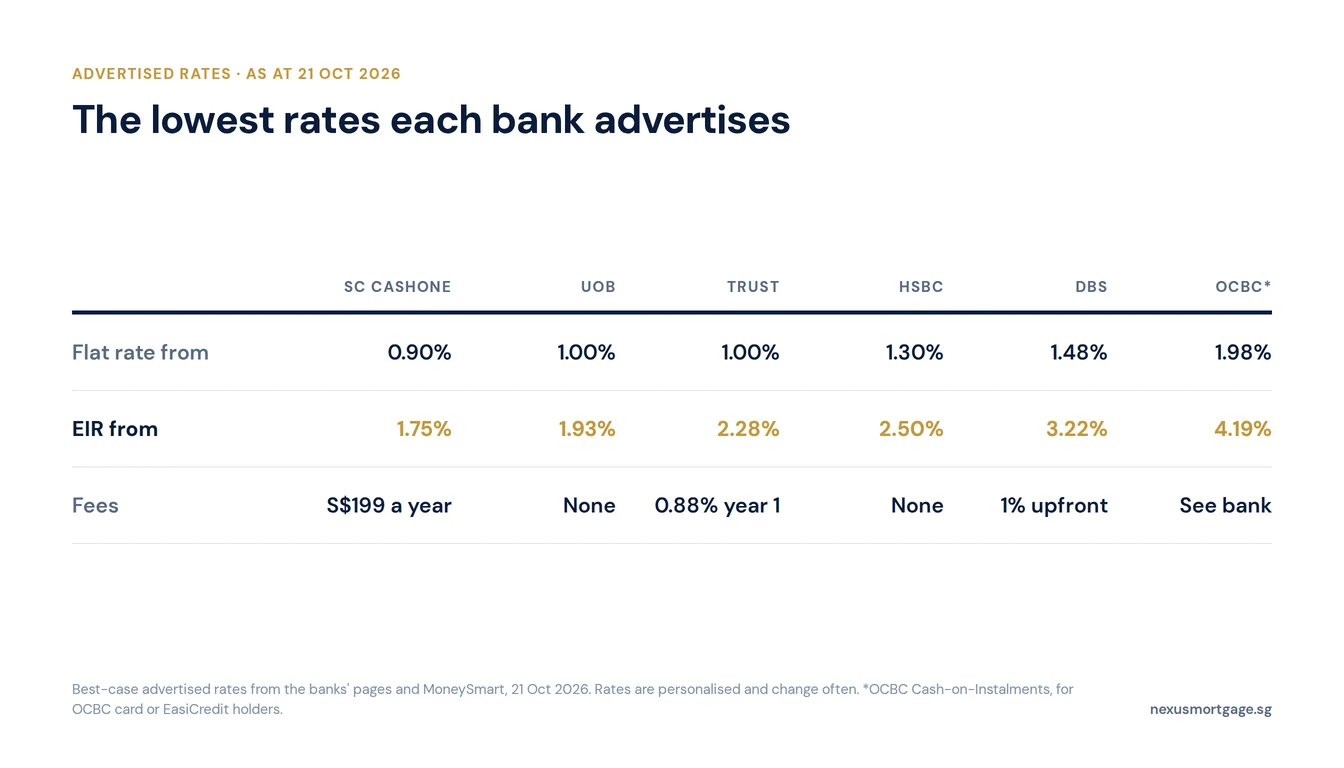
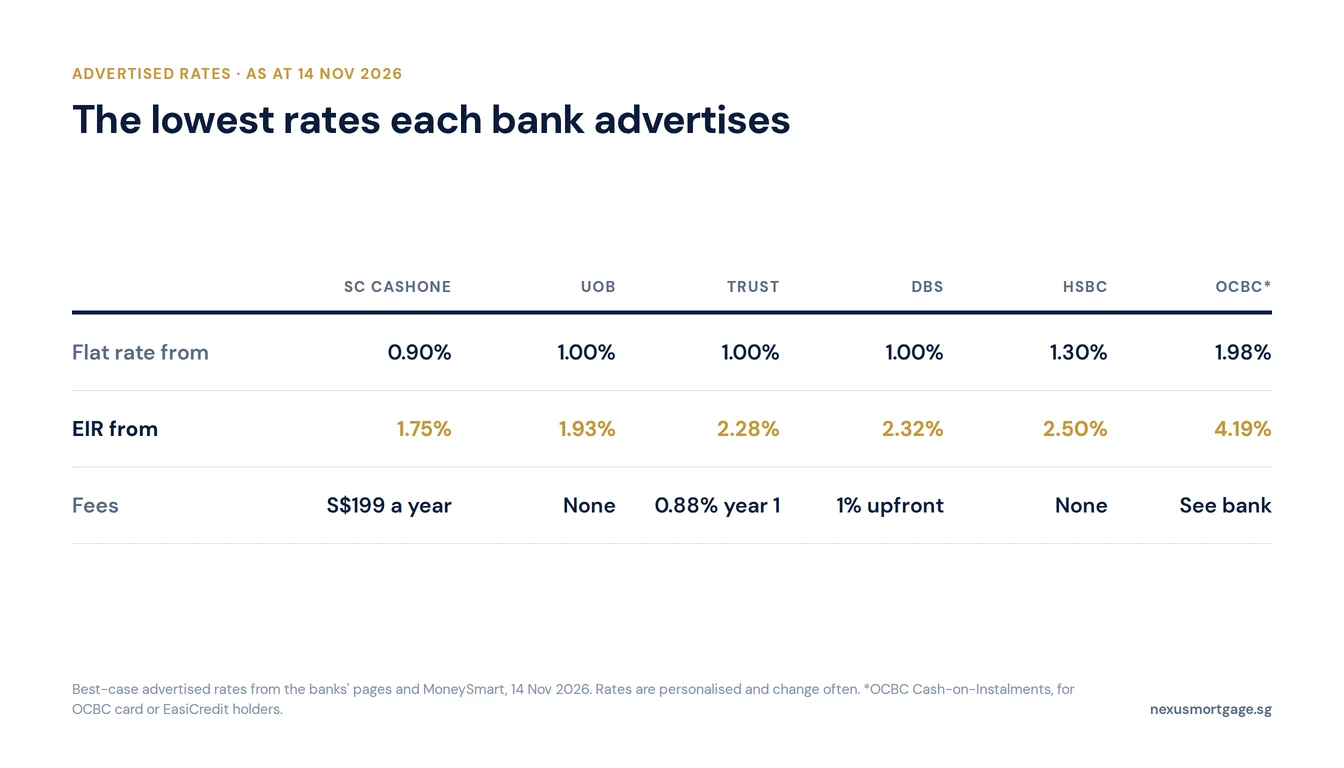
Personal loan rates: recheck to 14 Nov; DBS now from 1.00% + 1% fee (EIR 2.32%)
Trust, SC, UOB, HSBC and OCBC unchanged. DBS replaced its 1.99% / 5.47% worked
example with S$10,000 over 12 months at 1.00% + 1% fee (EIR 3.67%), so the
hero, table, FAQ and thumbnail follow.

diff --git a/blog/personal-loan-interest-rates-singapore-2026/index.html b/blog/personal-loan-interest-rates-singapore-2026/index.html
@@ -80,7 +80,7 @@
   <link rel="alternate" hreflang="en-sg" href="https://nexusmortgage.sg/blog/personal-loan-interest-rates-singapore-2026/">
   <link rel="alternate" hreflang="x-default" href="https://nexusmortgage.sg/blog/personal-loan-interest-rates-singapore-2026/">
 
-  <script type="application/ld+json">{"@context":"https://schema.org","@type":"Article","headline":"Personal Loan Interest Rates in Singapore: Bank by Bank, With the Real Cost","datePublished":"2026-11-12","dateModified":"2026-11-12","inLanguage":"en-SG","articleSection":"Personal Loans","wordCount":1900,"description":"Personal loan rates in Singapore compared bank by bank: advertised flat rates and EIRs, the fees that change the real cost, why the rate you get may differ, and what a loan does to your home loan.","mainEntityOfPage":{"@type":"WebPage","@id":"https://nexusmortgage.sg/blog/personal-loan-interest-rates-singapore-2026/"},"author":{"@id":"https://nexusmortgage.sg/#dan-ler","@type":"Person","name":"Dan Ler","url":"https://nexusmortgage.sg/about/","image":"https://nexusmortgage.sg/dan-ler.webp","jobTitle":"Mortgage Advisor","worksFor":{"@type":"Organization","name":"Nexus Mortgage","url":"https://nexusmortgage.sg"}},"publisher":{"@id":"https://nexusmortgage.sg/#organization"},"keywords":"personal loan interest rate Singapore, best personal loan Singapore, personal loan comparison Singapore, lowest personal loan rate, personal loan EIR, DBS personal loan rate, UOB personal loan, Standard Chartered CashOne, HSBC personal loan, Trust instant loan, OCBC personal loan","image":[{"@type":"ImageObject","url":"https://nexusmortgage.sg/blog/blog-images/personal-loan-rates-hero.png","width":1344,"height":768},{"@type":"ImageObject","url":"https://nexusmortgage.sg/blog/blog-images/personal-loan-rates-table.png","width":1344,"height":768},{"@type":"ImageObject","url":"https://nexusmortgage.sg/blog/blog-images/personal-loan-rates-cost.png","width":1344,"height":768}]}</script>
+  <script type="application/ld+json">{"@context":"https://schema.org","@type":"Article","headline":"Personal Loan Interest Rates in Singapore: Bank by Bank, With the Real Cost","datePublished":"2026-11-12","dateModified":"2026-11-14","inLanguage":"en-SG","articleSection":"Personal Loans","wordCount":1900,"description":"Personal loan rates in Singapore compared bank by bank: advertised flat rates and EIRs, the fees that change the real cost, why the rate you get may differ, and what a loan does to your home loan.","mainEntityOfPage":{"@type":"WebPage","@id":"https://nexusmortgage.sg/blog/personal-loan-interest-rates-singapore-2026/"},"author":{"@id":"https://nexusmortgage.sg/#dan-ler","@type":"Person","name":"Dan Ler","url":"https://nexusmortgage.sg/about/","image":"https://nexusmortgage.sg/dan-ler.webp","jobTitle":"Mortgage Advisor","worksFor":{"@type":"Organization","name":"Nexus Mortgage","url":"https://nexusmortgage.sg"}},"publisher":{"@id":"https://nexusmortgage.sg/#organization"},"keywords":"personal loan interest rate Singapore, best personal loan Singapore, personal loan comparison Singapore, lowest personal loan rate, personal loan EIR, DBS personal loan rate, UOB personal loan, Standard Chartered CashOne, HSBC personal loan, Trust instant loan, OCBC personal loan","image":[{"@type":"ImageObject","url":"https://nexusmortgage.sg/blog/blog-images/personal-loan-rates-hero.png","width":1344,"height":768},{"@type":"ImageObject","url":"https://nexusmortgage.sg/blog/blog-images/personal-loan-rates-table.png","width":1344,"height":768},{"@type":"ImageObject","url":"https://nexusmortgage.sg/blog/blog-images/personal-loan-rates-cost.png","width":1344,"height":768}]}</script>
 
   <script type="application/ld+json">{
   "@context": "https://schema.org",
@@ -92,7 +92,7 @@
       "name": "Which bank has the lowest personal loan interest rate in Singapore?",
       "acceptedAnswer": {
         "@type": "Answer",
-        "text": "On advertised rates as at 21 October 2026, Standard Chartered CashOne was lowest at 0.90% a year flat (EIR from 1.75%), followed by UOB and Trust at 1.00%, HSBC at 1.30%, DBS at 1.48% and OCBC's card-holder loan at 1.98%. These are the lowest rates each bank offers to its strongest applicants; the rate you are offered depends on your income and credit profile."
+        "text": "On advertised rates as at 14 November 2026, Standard Chartered CashOne was lowest at 0.90% a year flat (EIR from 1.75%), followed by UOB, Trust and DBS at 1.00%, HSBC at 1.30% and OCBC's card-holder loan at 1.98%. These are the lowest rates each bank offers to its strongest applicants; the rate you are offered depends on your income and credit profile."
       }
     },
     {
@@ -108,7 +108,7 @@
       "name": "Why is the rate I am offered higher than the advertised rate?",
       "acceptedAnswer": {
         "@type": "Answer",
-        "text": "Advertised rates are 'from' rates for the best profiles: higher incomes, clean credit and often existing customers. Banks personalise the rate, so a lower income or other borrowing usually means a higher rate. DBS's own worked example uses 1.99% plus a 1% processing fee, an EIR of 5.47%, against its headline 1.48%."
+        "text": "Advertised rates are 'from' rates for the best profiles: higher incomes, clean credit and often existing customers. Banks personalise the rate, so a lower income or other borrowing usually means a higher rate. DBS's own worked example, S$10,000 over 12 months at 1.00% plus a 1% processing fee, is an EIR of 3.67%."
       }
     },
     {
@@ -289,7 +289,7 @@
 
   <div class="short-answer">
     <div class="sa-title">Short answer</div>
-    <p>As at 21 October 2026, the main banks advertised personal loans from <strong>0.90% to 1.98% a year flat</strong>, which is an <strong>EIR from about 1.75% to 4.19%</strong>. Those are best-case rates. Your offer depends on your income and credit, and fees change the real cost: DBS's own example at 1.99% plus a 1% fee is an <strong>EIR of 5.47%</strong>. Always compare on the <strong>EIR including fees</strong>, and if you plan to buy or refinance a home soon, remember the instalment <strong>cuts your home loan by far more</strong> than it costs.</p>
+    <p>As at 14 November 2026, the main banks advertised personal loans from <strong>0.90% to 1.98% a year flat</strong>, which is an <strong>EIR from about 1.75% to 4.19%</strong>. Those are best-case rates. Your offer depends on your income and credit, and fees change the real cost: DBS's own example, S$10,000 over 12 months at 1.00% plus a 1% fee, is an <strong>EIR of 3.67%</strong>. Always compare on the <strong>EIR including fees</strong>, and if you plan to buy or refinance a home soon, remember the instalment <strong>cuts your home loan by far more</strong> than it costs.</p>
   </div>
 
   <div class="toc">
@@ -308,11 +308,11 @@
   <p>Nexus does not lend personal loans. We write about them because they keep turning up in our clients' home loan applications, usually at the worst moment. This is the comparison we would want before taking one.</p>
 
   <h2 id="rates">Advertised Rates, Bank by Bank</h2>
-  <img src="../blog-images/personal-loan-rates-table.webp" width="1344" height="768" alt="Table of advertised personal loan rates in Singapore as at 21 October 2026: Standard Chartered 0.90%, UOB 1.00%, Trust 1.00%, HSBC 1.30%, DBS 1.48% and OCBC 1.98% flat, with EIRs from 1.75% to 4.19%" class="blog-img" loading="lazy">
+  <img src="../blog-images/personal-loan-rates-table.webp" width="1344" height="768" alt="Table of advertised personal loan rates in Singapore as at 14 November 2026: Standard Chartered 0.90%, UOB 1.00%, Trust 1.00%, DBS 1.00%, HSBC 1.30% and OCBC 1.98% flat, with EIRs from 1.75% to 4.19%" class="blog-img" loading="lazy">
   <p class="img-caption">These are floors. The rate you are offered depends on your income and credit.</p>
 
 
-  <p>The lowest rates each bank advertised as at 21 October 2026. Rates and promotions change often, so check the bank before you apply.</p>
+  <p>The lowest rates each bank advertised as at 14 November 2026. Rates and promotions change often, so check the bank before you apply.</p>
 
   <table class="compare-table">
     <thead>
@@ -322,8 +322,8 @@
       <tr><td>Standard Chartered CashOne</td><td>0.90% p.a.</td><td>1.75% p.a.</td><td>S$199 annual fee (EIR 2.15% with it, on S$20,000 over 5 years)</td></tr>
       <tr><td>UOB Personal Loan</td><td>1.00% p.a.</td><td>1.93% p.a.</td><td>No processing fee (per MoneySmart)</td></tr>
       <tr><td>Trust Instant Loan</td><td>1.00% p.a.</td><td>2.28% p.a.</td><td>EIR includes a 0.88% first-year annual fee</td></tr>
+      <tr><td>DBS / POSB Personal Loan</td><td>1.00% p.a.</td><td>2.32% p.a.</td><td>1% processing fee; S$250 early termination</td></tr>
       <tr><td>HSBC Personal Loan</td><td>1.30% p.a.</td><td>2.50% p.a.</td><td>Promotional rate; zero processing fee</td></tr>
-      <tr><td>DBS / POSB Personal Loan</td><td>1.48% p.a.</td><td>3.22% p.a.</td><td>1% processing fee; S$250 early termination</td></tr>
       <tr><td>OCBC Cash-on-Instalments</td><td>1.98% p.a.</td><td>4.19% p.a.</td><td>OCBC credit card or EasiCredit holders only</td></tr>
     </tbody>
   </table>
@@ -336,7 +336,7 @@
 
   <p>Every rate in that table is a &ldquo;from&rdquo; rate: the lowest the bank offers, to its strongest applicants. Banks personalise the rate on your income, your credit report, your existing borrowing and often whether you already bank with them.</p>
 
-  <p>DBS shows the gap in its own worked example: a S$3,000 loan over 12 months at <strong>1.99% plus a 1% processing fee</strong> is an <strong>EIR of 5.47%</strong>, against its headline 1.48% and EIR of 3.22%. A smaller loan, a shorter tenure and a fixed fee all push the effective rate up.</p>
+  <p>DBS shows the gap in its own worked example: a S$10,000 loan over 12 months at <strong>1.00% plus a 1% processing fee</strong> is an <strong>EIR of 3.67%</strong>, against the headline EIR of 2.32% for the same rate and fee. A smaller loan, a shorter tenure and a fixed fee all push the effective rate up.</p>
 
   <p>There are also hard limits on how much each bank can lend you, set by MAS on your income: 2 months' income if you earn S$20,000 to below S$30,000 a year, 4 months' from S$30,000 to below S$120,000. Our <a href="/blog/personal-loan-how-much-can-i-borrow-singapore/">personal loan limits guide</a> covers them in full.</p>
 
@@ -395,13 +395,13 @@
   <h2 id="faq">Frequently Asked Questions</h2>
 
   <div class="faq-q">Which bank has the lowest personal loan interest rate in Singapore?</div>
-  <p>As at 21 October 2026, Standard Chartered CashOne at 0.90% a year flat (EIR from 1.75%), then UOB and Trust at 1.00%, HSBC at 1.30%, DBS at 1.48% and OCBC (card holders) at 1.98%. These are best-case rates; yours depends on your profile.</p>
+  <p>As at 14 November 2026, Standard Chartered CashOne at 0.90% a year flat (EIR from 1.75%), then UOB, Trust and DBS at 1.00%, HSBC at 1.30% and OCBC (card holders) at 1.98%. These are best-case rates; yours depends on your profile.</p>
 
   <div class="faq-q">What is the difference between the interest rate and the EIR on a personal loan?</div>
   <p>The flat rate is charged on the original loan for the whole tenure. The EIR is the true annual cost on the balance you owe, including fees, and is roughly double. Compare on the EIR.</p>
 
   <div class="faq-q">Why is the rate I am offered higher than the advertised rate?</div>
-  <p>Advertised rates are for the strongest applicants. DBS's own example uses 1.99% plus a 1% fee, an EIR of 5.47%, against its headline 1.48%.</p>
+  <p>Advertised rates are for the strongest applicants. DBS's own example, S$10,000 over 12 months at 1.00% plus a 1% fee, is an EIR of 3.67%, against its headline EIR of 2.32%.</p>
 
   <div class="faq-q">What fees should I look out for on a personal loan?</div>
   <p>Processing fees, annual fees on some products, early termination fees (S$250 at DBS) and late payment charges. Standard Chartered CashOne has a S$199 annual fee.</p>
@@ -426,8 +426,8 @@
   <p style="font-size: .8rem; color: rgba(232,227,218,.35); line-height: 1.6;">
     <em>This article is general information on personal loans in Singapore. It is not financial advice and not an
     offer of credit. Nexus Mortgage does not provide personal loans; BizSaver is a Nexus partner and Nexus may benefit
-    from that relationship. Advertised rates are the lowest each bank published as at 21 October 2026, from the banks'
-    own pages and MoneySmart's comparison updated 21 October 2026; rates are personalised and change often, so confirm
+    from that relationship. Advertised rates are the lowest each bank published as at 14 November 2026, from the banks'
+    own pages and MoneySmart's comparison, rechecked 14 November 2026; rates are personalised and change often, so confirm
     with the bank. The S$30,000 table is our own illustrative calculation over 36 months; banks' published EIRs may use
     slightly different methods. The home loan figure assumes a 4% stress rate over 25 years and no other debt. Current
     as at November 2026. Sources:

diff --git a/scripts/articles/personal_loan_rates.py b/scripts/articles/personal_loan_rates.py
@@ -11,6 +11,7 @@ KEYWORDS = ("personal loan interest rate Singapore, best personal loan Singapore
 SECTION = "Personal Loans"
 DATE_HUMAN = "12 November 2026"
 DATE_ISO = "2026-11-12"
+DATE_MODIFIED = "2026-11-14"
 READ_TIME = "8-minute read"
 WORDS = 1900
 H1 = "Personal Loan Interest Rates in Singapore: Bank by Bank, With the Real Cost"
@@ -24,8 +25,8 @@ OG_IMAGE_TYPE = "image/png"
 
 FAQ = [
  ("Which bank has the lowest personal loan interest rate in Singapore?",
-  "On advertised rates as at 21 October 2026, Standard Chartered CashOne was lowest at 0.90% a year flat (EIR from "
-  "1.75%), followed by UOB and Trust at 1.00%, HSBC at 1.30%, DBS at 1.48% and OCBC's card-holder loan at 1.98%. These "
+  "On advertised rates as at 14 November 2026, Standard Chartered CashOne was lowest at 0.90% a year flat (EIR from "
+  "1.75%), followed by UOB, Trust and DBS at 1.00%, HSBC at 1.30% and OCBC's card-holder loan at 1.98%. These "
   "are the lowest rates each bank offers to its strongest applicants; the rate you are offered depends on your income and credit profile."),
  ("What is the difference between the interest rate and the EIR on a personal loan?",
   "Banks advertise a flat rate, charged on the full original loan for the whole tenure even though you repay it "
@@ -34,7 +35,7 @@ FAQ = [
  ("Why is the rate I am offered higher than the advertised rate?",
   "Advertised rates are 'from' rates for the best profiles: higher incomes, clean credit and often existing "
   "customers. Banks personalise the rate, so a lower income or other borrowing usually means a higher rate. DBS's "
-  "own worked example uses 1.99% plus a 1% processing fee, an EIR of 5.47%, against its headline 1.48%."),
+  "own worked example, S$10,000 over 12 months at 1.00% plus a 1% processing fee, is an EIR of 3.67%."),
  ("What fees should I look out for on a personal loan?",
   "Processing fees taken from the loan, annual fees on some revolving-style loans, early termination fees if you "
   "repay early, and late payment charges. DBS, for example, charges S$250 to terminate a personal loan early, and "
@@ -52,7 +53,7 @@ FAQ = [
 BODY = r'''
   <div class="short-answer">
     <div class="sa-title">Short answer</div>
-    <p>As at 21 October 2026, the main banks advertised personal loans from <strong>0.90% to 1.98% a year flat</strong>, which is an <strong>EIR from about 1.75% to 4.19%</strong>. Those are best-case rates. Your offer depends on your income and credit, and fees change the real cost: DBS's own example at 1.99% plus a 1% fee is an <strong>EIR of 5.47%</strong>. Always compare on the <strong>EIR including fees</strong>, and if you plan to buy or refinance a home soon, remember the instalment <strong>cuts your home loan by far more</strong> than it costs.</p>
+    <p>As at 14 November 2026, the main banks advertised personal loans from <strong>0.90% to 1.98% a year flat</strong>, which is an <strong>EIR from about 1.75% to 4.19%</strong>. Those are best-case rates. Your offer depends on your income and credit, and fees change the real cost: DBS's own example, S$10,000 over 12 months at 1.00% plus a 1% fee, is an <strong>EIR of 3.67%</strong>. Always compare on the <strong>EIR including fees</strong>, and if you plan to buy or refinance a home soon, remember the instalment <strong>cuts your home loan by far more</strong> than it costs.</p>
   </div>
 
   <div class="toc">
@@ -72,7 +73,7 @@ BODY = r'''
 
   <h2 id="rates">Advertised Rates, Bank by Bank</h2>
 
-  <p>The lowest rates each bank advertised as at 21 October 2026. Rates and promotions change often, so check the bank before you apply.</p>
+  <p>The lowest rates each bank advertised as at 14 November 2026. Rates and promotions change often, so check the bank before you apply.</p>
 
   <table class="compare-table">
     <thead>
@@ -82,8 +83,8 @@ BODY = r'''
       <tr><td>Standard Chartered CashOne</td><td>0.90% p.a.</td><td>1.75% p.a.</td><td>S$199 annual fee (EIR 2.15% with it, on S$20,000 over 5 years)</td></tr>
       <tr><td>UOB Personal Loan</td><td>1.00% p.a.</td><td>1.93% p.a.</td><td>No processing fee (per MoneySmart)</td></tr>
       <tr><td>Trust Instant Loan</td><td>1.00% p.a.</td><td>2.28% p.a.</td><td>EIR includes a 0.88% first-year annual fee</td></tr>
+      <tr><td>DBS / POSB Personal Loan</td><td>1.00% p.a.</td><td>2.32% p.a.</td><td>1% processing fee; S$250 early termination</td></tr>
       <tr><td>HSBC Personal Loan</td><td>1.30% p.a.</td><td>2.50% p.a.</td><td>Promotional rate; zero processing fee</td></tr>
-      <tr><td>DBS / POSB Personal Loan</td><td>1.48% p.a.</td><td>3.22% p.a.</td><td>1% processing fee; S$250 early termination</td></tr>
       <tr><td>OCBC Cash-on-Instalments</td><td>1.98% p.a.</td><td>4.19% p.a.</td><td>OCBC credit card or EasiCredit holders only</td></tr>
     </tbody>
   </table>
@@ -96,7 +97,7 @@ BODY = r'''
 
   <p>Every rate in that table is a &ldquo;from&rdquo; rate: the lowest the bank offers, to its strongest applicants. Banks personalise the rate on your income, your credit report, your existing borrowing and often whether you already bank with them.</p>
 
-  <p>DBS shows the gap in its own worked example: a S$3,000 loan over 12 months at <strong>1.99% plus a 1% processing fee</strong> is an <strong>EIR of 5.47%</strong>, against its headline 1.48% and EIR of 3.22%. A smaller loan, a shorter tenure and a fixed fee all push the effective rate up.</p>
+  <p>DBS shows the gap in its own worked example: a S$10,000 loan over 12 months at <strong>1.00% plus a 1% processing fee</strong> is an <strong>EIR of 3.67%</strong>, against the headline EIR of 2.32% for the same rate and fee. A smaller loan, a shorter tenure and a fixed fee all push the effective rate up.</p>
 
   <p>There are also hard limits on how much each bank can lend you, set by MAS on your income: 2 months' income if you earn S$20,000 to below S$30,000 a year, 4 months' from S$30,000 to below S$120,000. Our <a href="/blog/personal-loan-how-much-can-i-borrow-singapore/">personal loan limits guide</a> covers them in full.</p>
 
@@ -152,13 +153,13 @@ BODY = r'''
   <h2 id="faq">Frequently Asked Questions</h2>
 
   <div class="faq-q">Which bank has the lowest personal loan interest rate in Singapore?</div>
-  <p>As at 21 October 2026, Standard Chartered CashOne at 0.90% a year flat (EIR from 1.75%), then UOB and Trust at 1.00%, HSBC at 1.30%, DBS at 1.48% and OCBC (card holders) at 1.98%. These are best-case rates; yours depends on your profile.</p>
+  <p>As at 14 November 2026, Standard Chartered CashOne at 0.90% a year flat (EIR from 1.75%), then UOB, Trust and DBS at 1.00%, HSBC at 1.30% and OCBC (card holders) at 1.98%. These are best-case rates; yours depends on your profile.</p>
 
   <div class="faq-q">What is the difference between the interest rate and the EIR on a personal loan?</div>
   <p>The flat rate is charged on the original loan for the whole tenure. The EIR is the true annual cost on the balance you owe, including fees, and is roughly double. Compare on the EIR.</p>
 
   <div class="faq-q">Why is the rate I am offered higher than the advertised rate?</div>
-  <p>Advertised rates are for the strongest applicants. DBS's own example uses 1.99% plus a 1% fee, an EIR of 5.47%, against its headline 1.48%.</p>
+  <p>Advertised rates are for the strongest applicants. DBS's own example, S$10,000 over 12 months at 1.00% plus a 1% fee, is an EIR of 3.67%, against its headline EIR of 2.32%.</p>
 
   <div class="faq-q">What fees should I look out for on a personal loan?</div>
   <p>Processing fees, annual fees on some products, early termination fees (S$250 at DBS) and late payment charges. Standard Chartered CashOne has a S$199 annual fee.</p>
@@ -183,8 +184,8 @@ BODY = r'''
   <p style="font-size: .8rem; color: rgba(232,227,218,.35); line-height: 1.6;">
     <em>This article is general information on personal loans in Singapore. It is not financial advice and not an
     offer of credit. Nexus Mortgage does not provide personal loans; BizSaver is a Nexus partner and Nexus may benefit
-    from that relationship. Advertised rates are the lowest each bank published as at 21 October 2026, from the banks'
-    own pages and MoneySmart's comparison updated 21 October 2026; rates are personalised and change often, so confirm
+    from that relationship. Advertised rates are the lowest each bank published as at 14 November 2026, from the banks'
+    own pages and MoneySmart's comparison, rechecked 14 November 2026; rates are personalised and change often, so confirm
     with the bank. The S$30,000 table is our own illustrative calculation over 36 months; banks' published EIRs may use
     slightly different methods. The home loan figure assumes a 4% stress rate over 25 years and no other debt. Current
     as at November 2026. Sources:
@@ -198,20 +199,20 @@ IMAGES = [
  {'out': 'personal-loan-rates-hero', 'type': 'hero', 'style': 'b',
   'kicker': 'Personal Loans',
   'title': "Personal loan rates, bank by bank: why 'from 1%' is not your rate",
-  'num': '5.47%', 'numlabel': "The EIR in DBS's own worked example, against a headline rate of 1.48%"},
+  'num': '3.67%', 'numlabel': "The EIR in DBS's own worked example for a loan advertised at 1.00% a year"},
 
  {'out': 'personal-loan-rates-table', 'type': 'compare', 'style': 'b',
-  'kicker': 'Advertised rates · as at 21 Oct 2026',
+  'kicker': 'Advertised rates · as at 14 Nov 2026',
   'title': 'The lowest rates each bank advertises',
-  'cols': ['SC CashOne', 'UOB', 'Trust', 'HSBC', 'DBS', 'OCBC*'],
-  'rows': [{'label': 'Flat rate from', 'cells': ['0.90%', '1.00%', '1.00%', '1.30%', '1.48%', '1.98%']},
-           {'label': 'EIR from', 'cells': ['1.75%', '1.93%', '2.28%', '2.50%', '3.22%', '4.19%'], 'highlight': True},
-           {'label': 'Fees', 'cells': ['S$199 a year', 'None', '0.88% year 1', 'None', '1% upfront', 'See bank']}],
-  'source': "Best-case advertised rates from the banks' pages and MoneySmart, 21 Oct 2026. Rates are personalised "
+  'cols': ['SC CashOne', 'UOB', 'Trust', 'DBS', 'HSBC', 'OCBC*'],
+  'rows': [{'label': 'Flat rate from', 'cells': ['0.90%', '1.00%', '1.00%', '1.00%', '1.30%', '1.98%']},
+           {'label': 'EIR from', 'cells': ['1.75%', '1.93%', '2.28%', '2.32%', '2.50%', '4.19%'], 'highlight': True},
+           {'label': 'Fees', 'cells': ['S$199 a year', 'None', '0.88% year 1', '1% upfront', 'None', 'See bank']}],
+  'source': "Best-case advertised rates from the banks' pages and MoneySmart, 14 Nov 2026. Rates are personalised "
             'and change often. *OCBC Cash-on-Instalments, for OCBC card or EasiCredit holders.',
   'anchor': 'rates',
-  'alt': 'Table of advertised personal loan rates in Singapore as at 21 October 2026: Standard Chartered 0.90%, UOB '
-         '1.00%, Trust 1.00%, HSBC 1.30%, DBS 1.48% and OCBC 1.98% flat, with EIRs from 1.75% to 4.19%',
+  'alt': 'Table of advertised personal loan rates in Singapore as at 14 November 2026: Standard Chartered 0.90%, UOB '
+         '1.00%, Trust 1.00%, DBS 1.00%, HSBC 1.30% and OCBC 1.98% flat, with EIRs from 1.75% to 4.19%',
   'caption': 'These are floors. The rate you are offered depends on your income and credit.'},
 
  {'out': 'personal-loan-rates-cost', 'type': 'compare', 'style': 'b',
